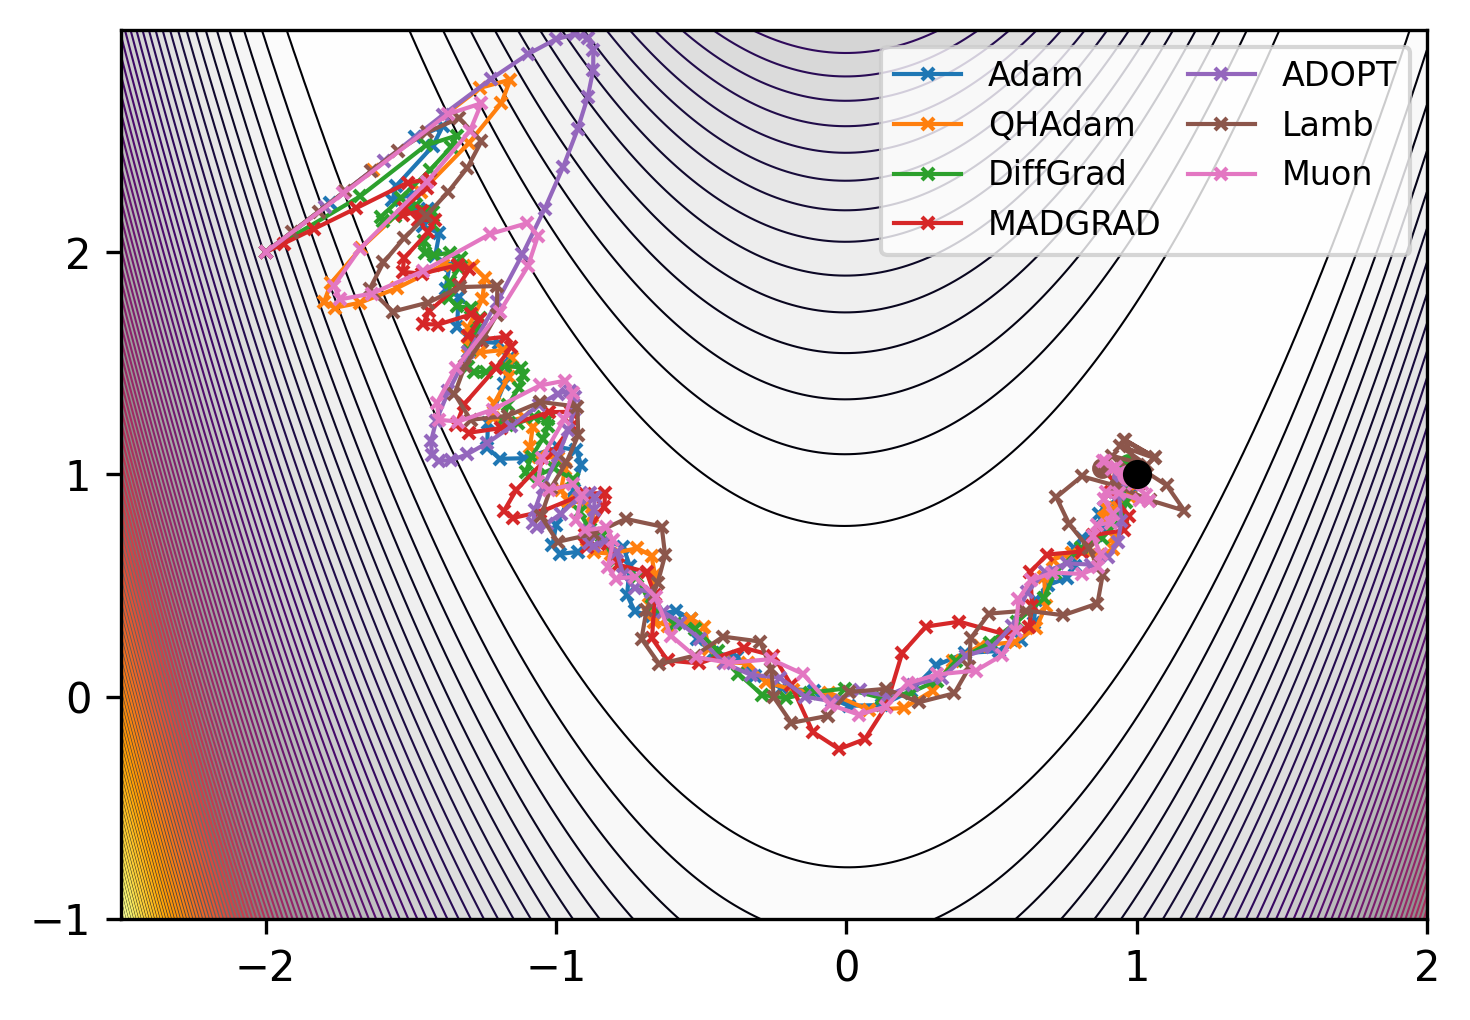
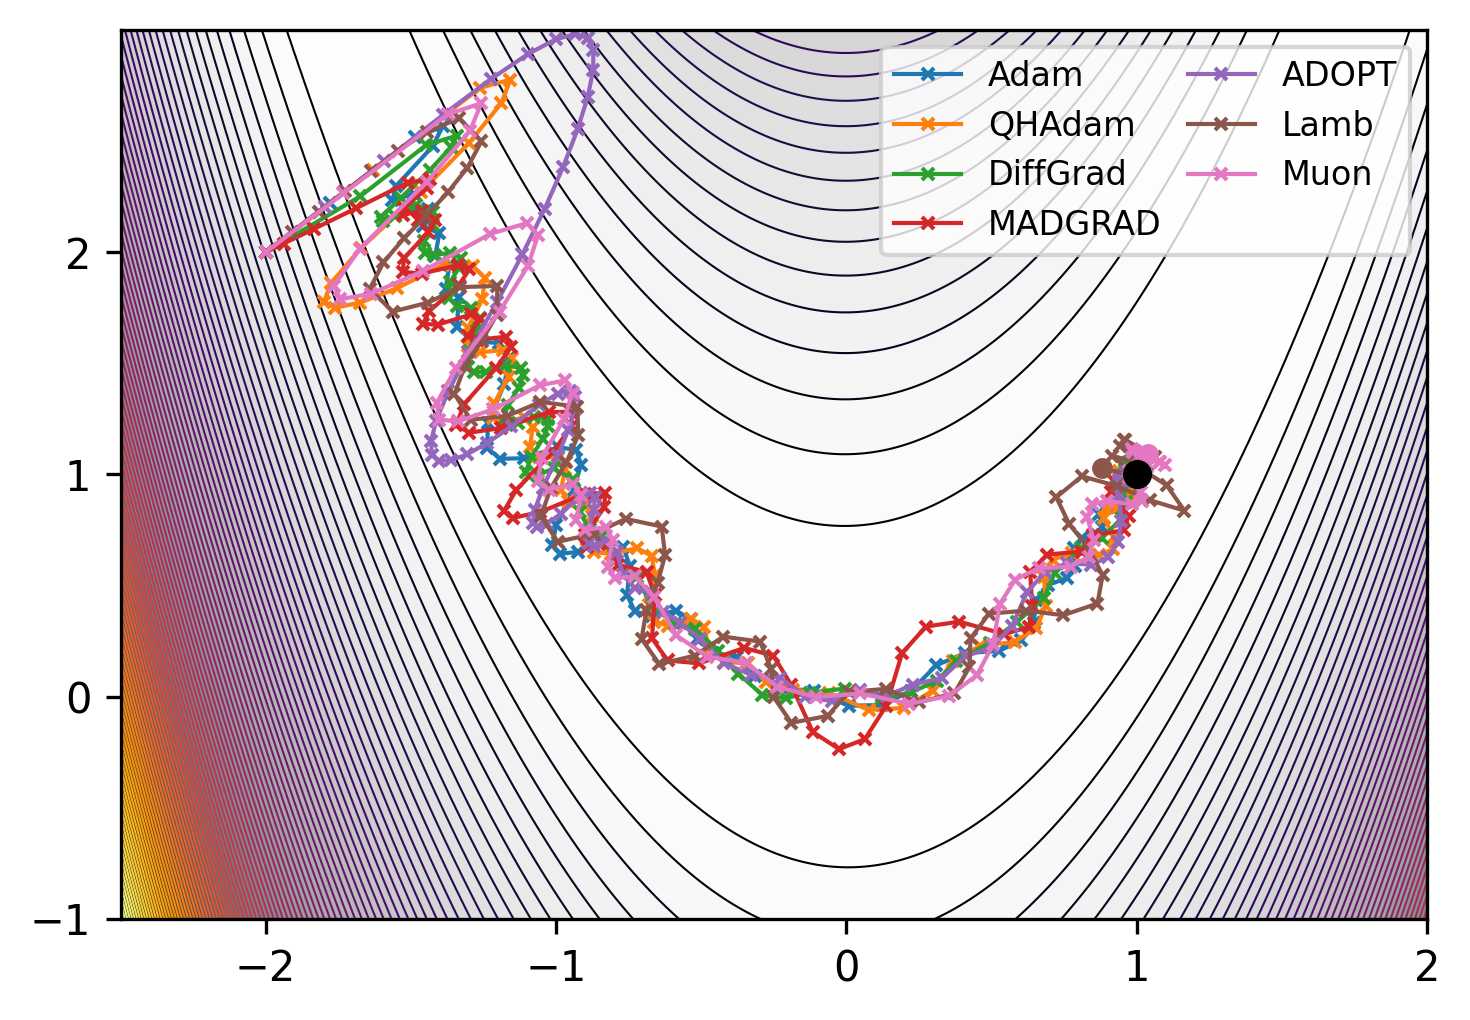
optim: updated rosenbrock example with hardcoded AdamW

Changed region(s): [[0.4286, 0.4255, 0.7959, 0.699], [0.3061, 0.3951, 0.3367, 0.4255]]

diff --git a/mlx_optimizers/muon.py b/mlx_optimizers/muon.py
@@ -11,9 +11,8 @@ def zeropower_via_svd(G, steps=None) -> mx.array:
 
 @mx.compile
 def zeropower_via_newtonschulz5(G, steps=10, eps=1e-7) -> mx.array:
-    """
-    Newton-Schulz iteration to compute the zeroth power / orthogonalization of G. We opt to use a
-    quintic iteration whose coefficients are selected to maximize the slope at zero. For the purpose
+    r"""Newton-Schulz iteration to compute the zeroth power / orthogonalization of :math:`G`. We opt to
+    use a quintic iteration whose coefficients are selected to maximize the slope at zero. For the purpose
     of minimizing steps, it turns out to be empirically effective to keep increasing the slope at
     zero even beyond the point where the iteration no longer converges all the way to one everywhere
     on the interval. This iteration therefore does not produce :math:`UV^T` but rather something like

diff --git a/examples/rosenbrock.py b/examples/rosenbrock.py
@@ -118,7 +118,7 @@ if __name__ == "__main__":
         (optim.MADGRAD, 0, 0.5, {}),
         (optim.ADOPT, 0, 0.25, {}),
         (optim.Lamb, 0, 0.25, {}),
-        (optim.Muon, 0, 0.2, {}),
+        (optim.Muon, 0, 0.2, {"alternate_optimizer": AdamW(learning_rate=0.0842)}),  # fixed lr
     ]
     execute_experiments(
         optimizers, objective_rosenbrock, rosenbrock, plot_rosenbrock, ROSENBROCK_INITIAL
